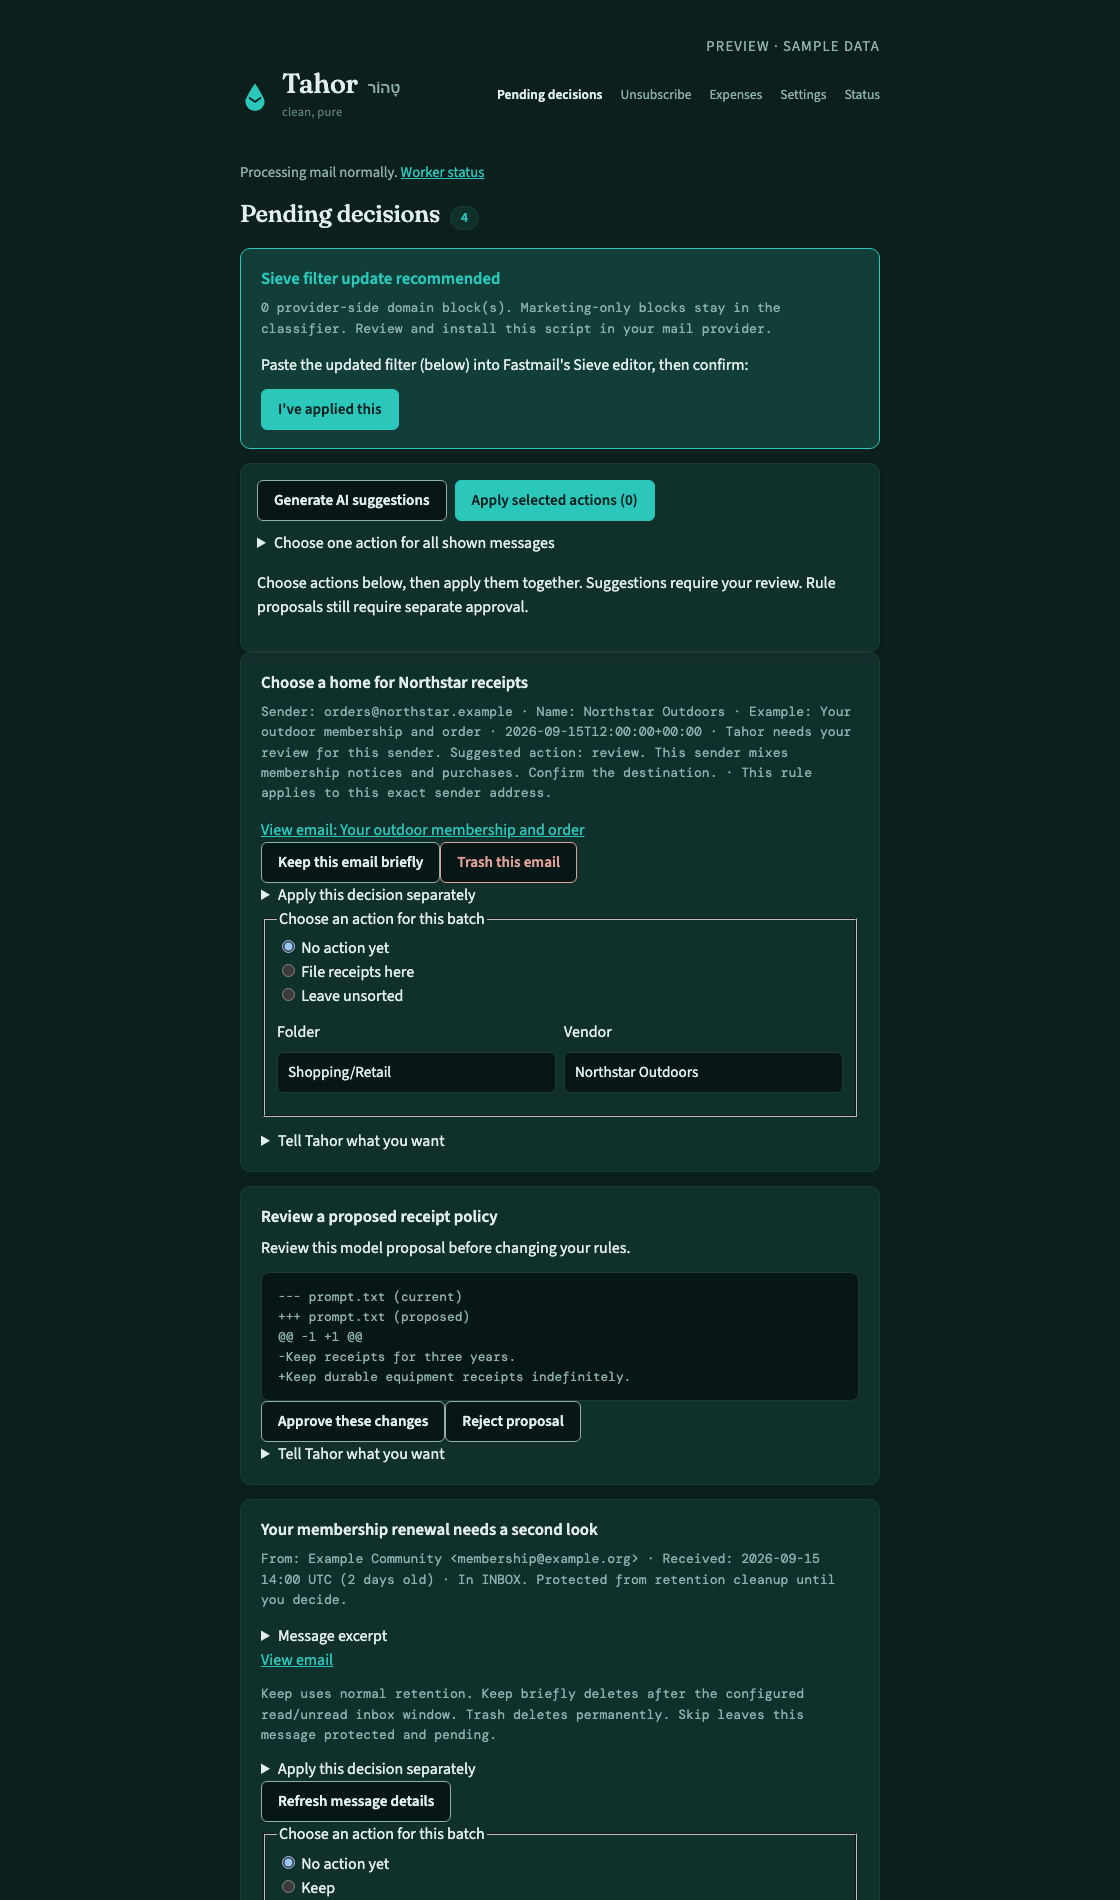
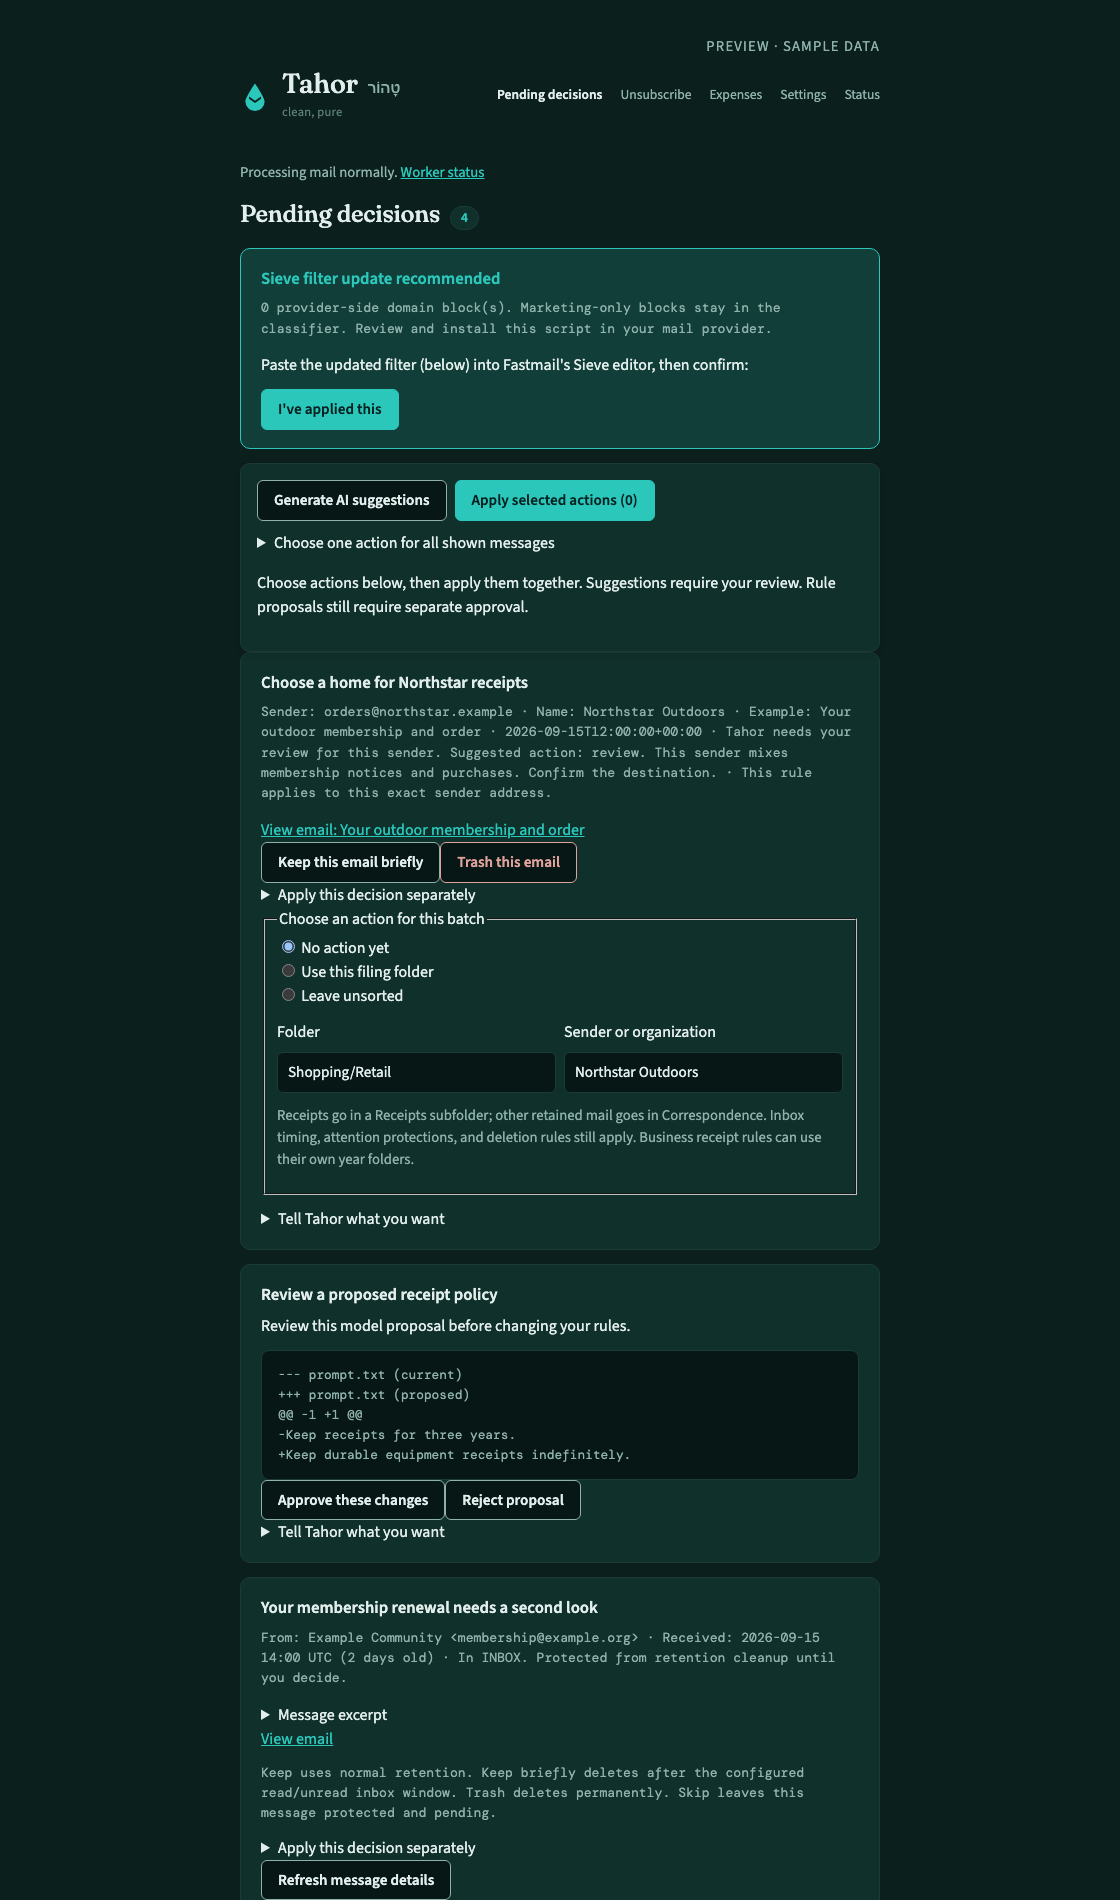
Explain filing receipts separately from retained correspondence

diff --git a/decision_bulk_ui.py b/decision_bulk_ui.py
@@ -70,7 +70,7 @@ BAR = '''<style>
 def choices(row, revision, suggestion=None, buckets=()):
     from html import escape
     options = ([('keep', 'Keep'), ('keep_brief', 'Keep briefly'), ('trash', 'Trash permanently'), ('skip', 'Skip for now')]
-               if row['kind'] == 'message_review' else [('map', 'File receipts here'), ('unsorted', 'Leave unsorted')])
+               if row['kind'] == 'message_review' else [('map', 'Use this filing folder'), ('unsorted', 'Leave unsorted')])
     selected = (suggestion or {}).get('action', '')
     radios = ''.join(f'<label style="display:block"><input data-decision-choice type="radio" name="decision-choice-{row["id"]}" value="{value}"{" checked" if selected == value else ""}> {label}</label>' for value, label in [('', 'No action yet')] + options)
     fields = ''
@@ -84,6 +84,7 @@ def choices(row, revision, suggestion=None, buckets=()):
         vendor = (suggestion or {}).get('vendor_name') or context.get('suggested_vendor') or context.get('display_name') or ''
         fields = (f'<div class="fields" style="margin-top:.75rem"><label>Folder <input type="text" data-bulk-bucket list="decision-folders-{row["id"]}" value="{escape(bucket)}"></label>'
                   f'<datalist id="decision-folders-{row["id"]}">' + ''.join(f'<option value="{escape(b)}">' for b in buckets) + '</datalist>'
-                  f'<label>Vendor <input type="text" data-bulk-vendor value="{escape(vendor)}"></label></div>')
+                  f'<label>Sender or organization <input type="text" data-bulk-vendor value="{escape(vendor)}"></label></div>'
+                  '<p class="hint">Receipts go in a Receipts subfolder; other retained mail goes in Correspondence. Inbox timing, attention protections, and deletion rules still apply. Business receipt rules can use their own year folders.</p>')
     reason = 'AI suggestion: ' + suggestion.get('reason', '') if suggestion else ''
     return f'<fieldset data-decision-choices><legend>Choose an action for this batch</legend>{radios}{fields}</fieldset><p class="decision-result" role="status">{escape(reason)}</p>'

diff --git a/decision-app/app.py b/decision-app/app.py
@@ -657,7 +657,7 @@ def decision_context(row):
                 parts.append('Example: ' + str(sample['subject']) + (' · ' + str(sample.get('received_at') or sample.get('date')) if sample.get('received_at') or sample.get('date') else ''))
         if context.get('suggestion_source') == 'ai':
             parts.append('Tahor needs your review for this sender. Suggested action: ' + str(context.get('suggested_action', 'review')) + '. ' + str(context.get('suggestion_reason', ''))[:500])
-        parts.append('This rule applies to this exact sender address.' if context.get('routing_key') else 'Sender details have not been captured yet. Confirm the merchant before saving a domain-wide rule.')
+        parts.append('This rule applies to this exact sender address.' if context.get('routing_key') else 'Sender details have not been captured yet. Confirm the sender or organization before saving a domain-wide rule.')
         return ' · '.join(parts)
     if row["kind"] == "message_review":
         parts = [f'From: {context.get("sender") or ("Not provided in this email" if context.get("details_loaded") else "Loading in the background")}']

diff --git a/README.md b/README.md
@@ -18,7 +18,7 @@
 
 **Tahor is a self-hosted email assistant that works inside your existing mailbox.**
 It starts with your inbox, works through the backlog without a folder-size limit,
-tags messages, files receipts, helps you unsubscribe,
+tags messages, files records and correspondence, helps you unsubscribe,
 and prepares replies for review. Your usual email client stays your email client.
 
 The name comes from **טָהוֹר**, Hebrew for “clean, pure.” The aim is practical:
@@ -28,7 +28,7 @@ that should not be left to a model.
 | The routine work | Your control |
 | :--- | :--- |
 | Classify and tag messages in the background | Review ambiguous mail before retention cleanup |
-| File routine receipts and statements, then mark them read | Choose the vendor’s destination in the app |
+| File retained records and correspondence, then mark low-attention mail read | Choose the sender’s destination in the app |
 | Group business receipts by calendar year and preserve them permanently | Review a private expense ledger and export CSV |
 | Track unsubscribe requests and sender blocks | Keep subscriptions, block marketing, or block a domain |
 | Draft a response when your reply rule matches | Find the original unread; edit and send its draft in your mail client |
@@ -159,8 +159,16 @@ is the free option. Additional supported choices are available in Settings.
 
 ## Decisions without the busywork
 
-Tahor uses observed messages to identify merchants and automatically route confident
-receipt and statement matches. Shared delivery services are matched by the actual
+Tahor uses observed messages to identify senders and automatically route confident
+filing matches. Archiving covers receipts, statements, legal and medical records,
+travel details, account notices, and personal correspondence worth retaining.
+Mail that still needs attention stays protected, and inbox timing and deletion
+rules continue to apply. **Use this filing folder** sets the destination for
+qualifying retained mail; it does not keep everything a sender sends. Within that
+sender's filing area, receipts go in **Receipts** and other retained messages go
+in **Correspondence**. Existing mail in configured sender folders is reorganized
+gradually. Business-specific receipt rules can use calendar-year folders instead.
+Shared delivery services are matched by the actual
 sender address; a marketplace purchase does not turn every future receipt into the
 same product category. Uncertain cases show the sender, date, suggested folder,
 and a link to read the email safely before deciding. Actions update the queue in
@@ -324,7 +332,7 @@ external database, or frontend build is required.
 | :--- | :--- |
 | `backlog_worker.py` / `mailbox_scheduler.py` | Prioritize Inbox work, discover active folders, classify, and retry failed batches |
 | `process_batch.py` / `keyword_tool.py` | Enforce sender rules and track confirmed mailbox writes |
-| `filing_sweep.py` | Move aged receipts, statements, and tax mail with IMAP `MOVE` |
+| `filing_sweep.py` | File aged records and correspondence with guarded IMAP `MOVE` |
 | `retention_sweep.py` | Delete expired mail and retry pending trash deletion with targeted UID expunge |
 | `decision-app/` | Review decisions, apply rules, manage subscriptions and model settings |
 | `draft_replies.py` / `reply_rules.py` | Match owner instructions and prepare recoverable, thread-aware mailbox drafts |

diff --git a/docs/operations.md b/docs/operations.md
@@ -621,3 +621,10 @@ choices awaiting recovery. Automatic vendor choices are not counted as owner
 feedback. Stale source revisions cannot inherit a previous destructive selection.
 The decision-suggestions and decision-actions timers run independently every
 15 seconds after the preceding pass, using the same unprivileged service identity.
+
+Sender mappings select a filing area, not a receipt-only rule. Generic filing
+separates classified receipts into `Receipts` and other retained records or
+correspondence into `Correspondence` beneath that sender's folder. Age and
+attention protections still apply. Existing messages in configured sender-root
+folders are reconciled in bounded passes; arbitrary custom subfolders are left
+alone. Business, reply-rule, and coupon destinations retain their own layouts.
